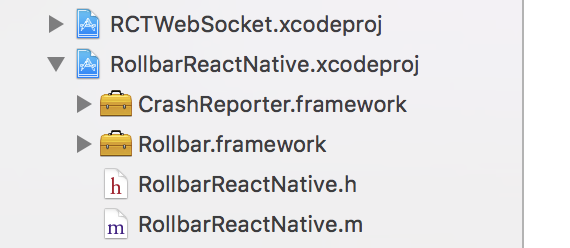
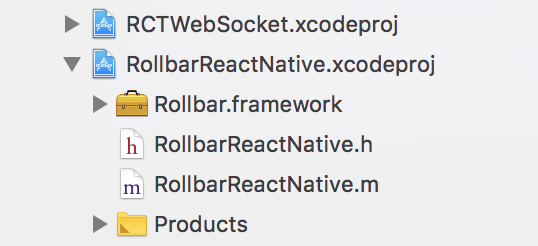
These changes require the new iOS SDK so update the README with the relevant information and bump the version from 0.1.x to 0.2.x-alpha1 because it is a breaking change

diff --git a/android/src/main/java/com/rollbar/RollbarReactNative.java b/android/src/main/java/com/rollbar/RollbarReactNative.java
@@ -27,7 +27,7 @@ import com.rollbar.notifier.config.ConfigProvider;
 public class RollbarReactNative extends ReactContextBaseJavaModule {
   private static final String REACT_NATIVE = "react-native";
   private static final String NOTIFIER_NAME = "rollbar-react-native";
-  private static final String NOTIFIER_VERSION = "0.1.3-alpha4";
+  private static final String NOTIFIER_VERSION = "0.2.0-alpha1";
   private ReactContext reactContext;
 
   public static ReactPackage getPackage() {

diff --git a/README.md b/README.md
@@ -30,7 +30,7 @@ $ react-native link rollbar-react-native
 ```
 
 3. For iOS, download the Rollbar iOS Framework
-   [here](https://github.com/rollbar/rollbar-ios/releases/download/v0.2.0/Rollbar.zip). Extract this
+   [here](https://github.com/rollbar/rollbar-ios/releases/download/v1.0.0-alpha4/Rollbar.zip). Extract this
    zip file somewhere. You will need it for the next couple steps.
 
 4. Open the underlying Xcode project for your app:
@@ -39,7 +39,7 @@ $ react-native link rollbar-react-native
 $ open ios/MyAwesomeApp.xcodeproj
 ```
 
-5. Drag the frameworks from the extracted zip file to be part of the `RollbarReactNative` project:
+5. Drag the framework from the extracted zip file to be part of the `RollbarReactNative` project:
 
 ![Add frameworks to RollbarReactNative](iosFrameworks.png)
 
